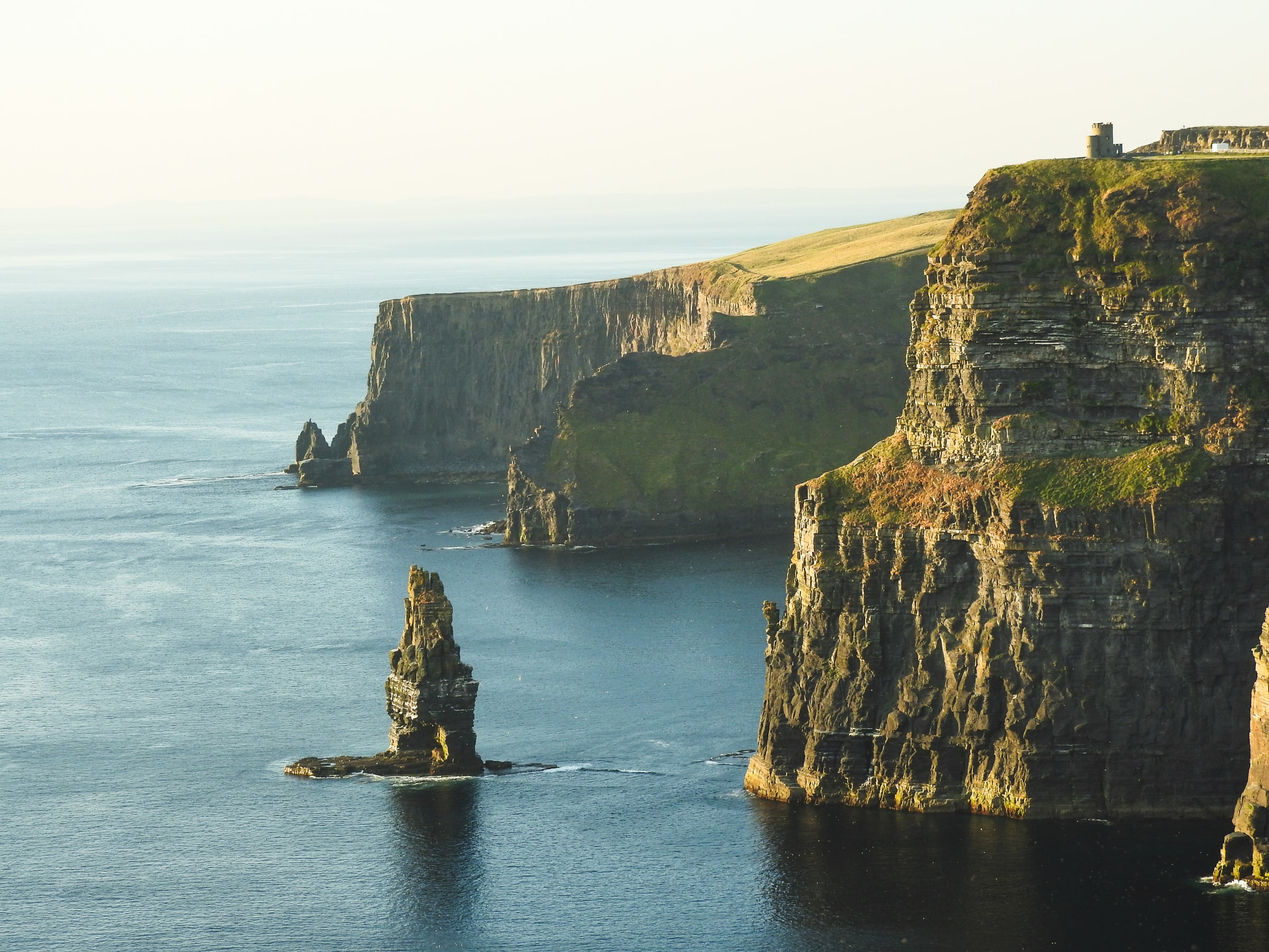
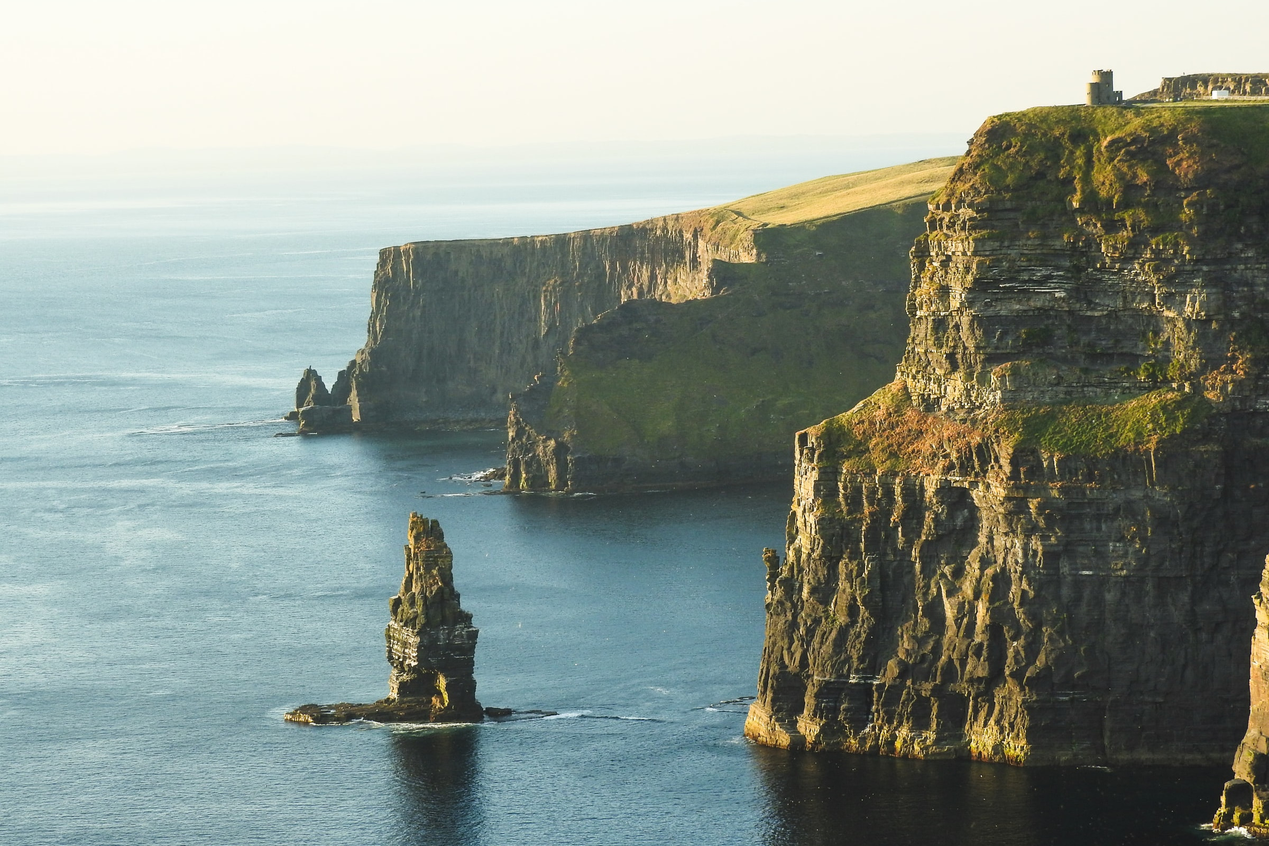
Adds responsive images html picture component

Changed region(s): [[0.0, 0.0625, 1.0, 1.0], [0.0, 0.4375, 0.1562, 0.4688]]

diff --git a/pages/index.tsx b/pages/index.tsx
@@ -1,7 +1,5 @@
 import React from 'react'
 
-import Image from 'next/image'
-
 import Layout from '../components/Layout'
 import MyHead from '../components/MyHead'
 import Header from '../components/Header'
@@ -20,13 +18,13 @@ const IndexPage = () => (
       title="Michael Cowell Irish Tours"
       description="I would be happy to contribute to a successful tour of Ireland."
     />
-    <ImageBackground backgroundImage="bg-doonagoreXXL">
+    <ImageBackground backgroundImage="doonagoreXS sm:doonagoreSM md:doonagoreMD lg:doonagoreLG xl:doonagoreXL 2xl:bg-doonagoreXXL">
       <Header />
       <Main>
-        <h1 className="mt-8 font-serif text-2xl font-bold text-center text-white inherit sm:text-5xl sm:mt-24 drop-shadow">
+        <h1 className="mt-8 font-serif text-2xl font-bold text-center text-white bg-green-600 opacity-80 sm:text-5xl sm:mt-24 drop-shadow">
           Michael Cowell Irish Tours
         </h1>
-        <h2 className="mt-8 font-serif font-bold text-center text-white sm:bg-opacity-0 text-1xl inherit sm:text-3xl drop-shadow">
+        <h2 className="mt-8 font-serif font-bold text-center text-white bg-yellow-600 sm:bg-opacity-0 text-1xl sm:text-3xl drop-shadow">
           Individually tailored and specialized tours
         </h2>
         <div className="mt-8 text-center">
@@ -43,10 +41,9 @@ const IndexPage = () => (
             until your departure."
         title="Click below to learn about the tour packages we offer."
         image={
-          <Image
-            className="w-full"
-            src="/img/xxl/xxl-henrique-craveiro-cliffs-of-moher-co-clare-ireland.webp"
-            alt="Close"
+          <Picture
+            src="henrique-craveiro-cliffs-of-moher-co-clare-ireland"
+            alt="henrique-craveiro-cliffs-of-moher-co-clare-ireland"
             width={2400}
             height={1600}
           />
@@ -60,10 +57,9 @@ const IndexPage = () => (
             until your departure."
         title="Click below to learn about the tour packages we offer."
         image={
-          <Image
-            className="w-full"
-            src="/img/xxl/xxl-michael-skellig-michael-co-kerry-also-doubles-as-luke-skywalker-retreat-in-star-wars-ireland.webp"
-            alt="Close"
+          <Picture
+            src="michael-skellig-michael-co-kerry-also-doubles-as-luke-skywalker-retreat-in-star-wars-ireland"
+            alt="michael-skellig-michael-co-kerry-also-doubles-as-luke-skywalker-retreat-in-star-wars-ireland"
             width={2400}
             height={1600}
           />
@@ -77,10 +73,9 @@ const IndexPage = () => (
             until your departure."
         title="Click below to learn about the tour packages we offer."
         image={
-          <Image
-            className="w-full"
-            src="/img/xxl/xxl-wynand-van-poortvliet-great-saltee-island-wexford-ireland.webp"
-            alt="Close"
+          <Picture
+            src="wynand-van-poortvliet-great-saltee-island-wexford-ireland"
+            alt="wynand-van-poortvliet-great-saltee-island-wexford-ireland"
             width={2400}
             height={1600}
           />

diff --git a/components/ui/Images/Picture.tsx b/components/ui/Images/Picture.tsx
@@ -1,24 +1,43 @@
-import { ReactNode } from 'react'
+// <picture>
+//   <source type="image/jpg" srcset="img-300w.jpg 300w img-500w.jpg 500w ...">
+//   <source type="image/webp" srcset="img-300w.webp 300w img-500w.webp 500w ...">
+//   <img src="img.jpg" alt="Adding alternative text to photos is first and foremost a principle of web accessibility."
+//    width="2400" height="1600">
+// </picture>
 
 import PictureSource from './PictureSource'
 
-import { IMAGE_TYPES } from '../../../constants/images'
+import {
+  DEFAULT_IMAGES_BASE_PATH,
+  DEFAULT_IMAGES_SUFFIX,
+  IMAGE_TYPES,
+} from '../../../constants/images'
 
 type Props = {
-  sources?: [ReactNode]
-  srcSet: string
-  sizes: string
   src: string
-  alt?: string
+  alt: string
+  width: number
+  height: number
 }
 
-const Picture = ({ src, srcSet, alt = 'Image' }: Props) => (
+const Picture = ({ src, alt, width, height }: Props) => (
   <picture>
     {IMAGE_TYPES.map((pictureSourceType) => {
-      return <PictureSource type={pictureSourceType.type} srcSet={srcSet} />
+      return (
+        <PictureSource
+          src={src}
+          suffix={pictureSourceType.suffix}
+          type={pictureSourceType.type}
+          key={pictureSourceType.type}
+        />
+      )
     })}
-
-    <img src={src} alt={alt} />
+    <img
+      src={DEFAULT_IMAGES_BASE_PATH + src + DEFAULT_IMAGES_SUFFIX}
+      alt={alt}
+      width={width}
+      height={height}
+    />
   </picture>
 )
 

diff --git a/tailwind.config.js b/tailwind.config.js
@@ -8,7 +8,19 @@ module.exports = {
     extend: {
       backgroundImage: (theme) => ({
         doonagoreXXL:
-          "url('/img/xxl/xxl-jesse-gardner-doonagore-castle-fort-of-the-goats-doolin-co-clare-ireland.webp')",
+          "url('/img/xxl/jordan-harrison-dame-lane-dublin-ireland-2400w.jpg')",
+        doonagoreXL:
+          "url('/img/xl/jordan-harrison-dame-lane-dublin-ireland-1920w.jpg')",
+        doonagoreLG:
+          "url('/img/lg/jordan-harrison-dame-lane-dublin-ireland-1560w.jpg')",
+        doonagoreMD:
+          "url('/img/md/jordan-harrison-dame-lane-dublin-ireland-1240w.jpg')",
+        doonagoreSM:
+          "url('/img/sm/jordan-harrison-dame-lane-dublin-ireland-800w.jpg')",
+        doonagoreXS:
+          "url('/img/xs/jordan-harrison-dame-lane-dublin-ireland-500w.jpg')",
+        doonagoreXXS:
+          "url('/img/xxs/jordan-harrison-dame-lane-dublin-ireland-300w.jpg')",
       }),
       zIndex: {
         '-1': '-1',
@@ -25,7 +37,9 @@ module.exports = {
       minHeight: {
         0: '0',
         '1/4': '25vh',
+        '2/5': '40vh',
         '1/2': '50vh',
+        '3/5': '60vh',
         '3/4': '75vh',
         '9/10': '90vh',
         full: '100%',

diff --git a/constants/images.ts b/constants/images.ts
@@ -1,6 +1,16 @@
-export const IMAGE_TYPES = [{ type: 'image/webp' }, { type: 'image/jpeg' }]
+import { ImageSize, ImageType } from '../interfaces'
 
-export const IMAGE_SIZES = [
+export const DEFAULT_IMAGES_BASE_PATH = '/img/originals/'
+export const DEFAULT_IMAGES_SUFFIX = '.jpg'
+
+export const IMAGES_BASE_PATH = '/img/'
+
+export const IMAGE_TYPES: ImageType[] = [
+  { type: 'image/webp', suffix: '.webp' },
+  { type: 'image/jpeg', suffix: '.jpg' },
+]
+
+export const IMAGE_SIZES: ImageSize[] = [
   { id: 'xxl', size: 2400, media: '(min-width: 2048px)' },
   { id: 'xl', size: 1920, media: '(min-width: 1920px)' },
   { id: 'lg', size: 1536, media: '(min-width: 1200px)' },
@@ -9,5 +19,3 @@ export const IMAGE_SIZES = [
   { id: 'xs', size: 500, media: '(min-width: 400px)' },
   { id: 'xxs', size: 300, media: '(max-width: 399px)' },
 ]
-
-export const IMAGES_BASE_PATH = './public/img/'

diff --git a/components/ui/Images/PictureSource.tsx b/components/ui/Images/PictureSource.tsx
@@ -1,10 +1,25 @@
+import { IMAGES_BASE_PATH, IMAGE_SIZES } from '../../../constants/images'
+
+import { ImageSize } from '../../../interfaces'
+
 type Props = {
+  src: string
+  suffix: string
   type: string
-  srcSet: string
 }
 
-const PictureSource = ({ type, srcSet }: Props) => (
-  <source type={type} srcSet={srcSet} />
+const PictureSource = ({ type, src, suffix }: Props) => (
+  <>
+    {IMAGE_SIZES.map((imgSize: ImageSize) => {
+      return (
+        <source
+          media={imgSize.media}
+          type={type}
+          srcSet={`${IMAGES_BASE_PATH}${imgSize.id}/${src}-${imgSize.size}w${suffix} ${imgSize.size}w`}
+          key={`${src}-${imgSize.size}w${suffix}`}
+        />
+      )
+    })}
+  </>
 )
-
 export default PictureSource

diff --git a/lib/images.ts b/lib/images.ts
@@ -1,0 +1,20 @@
+// Creates a space separated list of image path names with sizes
+/* '/img/xxl/abc-2400w.webp|jpg 2400w, 
+    /img/xl/abc-1920w.webp|jpg 1920w, 
+    /img/lg/abc-1280w.webp|jpg 1280w,
+    /img/md/abc-800w.webp|jpg 800w,
+    /img/xs/abc-500w.webp|jpg 500w,
+    /img/xxs/abc-300w.webp|jpg 300w,
+*/
+
+import { IMAGES_BASE_PATH, IMAGE_SIZES } from '../constants/images'
+
+import { ImageSize } from '../interfaces'
+
+export const generateSrcSet = (src: string, suffix: string): string => {
+  let srcSet = ''
+  IMAGE_SIZES.forEach((imgSize: ImageSize) => {
+    srcSet += `${IMAGES_BASE_PATH}${imgSize.id}/${src}-${imgSize.size}w${suffix} ${imgSize.size}w, `
+  })
+  return srcSet ?? ''
+}

diff --git a/interfaces/index.ts b/interfaces/index.ts
@@ -8,3 +8,21 @@ export type User = {
   id: number
   name: string
 }
+
+export type ImageSize = {
+  id: 'xxl' | 'xl' | 'lg' | 'md' | 'sm' | 'xs' | 'xxs'
+  size: 2400 | 1920 | 1536 | 1280 | 800 | 500 | 300
+  media:
+    | '(min-width: 2048px)'
+    | '(min-width: 1920px)'
+    | '(min-width: 1200px)'
+    | '(min-width: 1080px)'
+    | '(min-width: 750px)'
+    | '(min-width: 400px)'
+    | '(max-width: 399px)'
+}
+
+export type ImageType = {
+  type: 'image/webp' | 'image/jpeg'
+  suffix: '.webp' | '.jpg'
+}

diff --git a/components/Navigation/ResponsiveHeaderNavigation.tsx b/components/Navigation/ResponsiveHeaderNavigation.tsx
@@ -23,7 +23,7 @@ function ResponsiveHeaderNavigation() {
       <div className="block sm:hidden">
         <button
           className="flex items-center px-3 py-2 text-teal-200 border border-teal-400 rounded hover:text-white hover:border-white"
-          aria-control={MOBILE_MENU_ID}
+          aria-controls={MOBILE_MENU_ID}
           aria-expanded="false"
           onClick={() => setOpen(!open)}
         >

diff --git a/components/Brand.tsx b/components/Brand.tsx
@@ -1,5 +1,4 @@
 import React from 'react'
-import Image from 'next/image'
 
 type Props = {
   src: string
@@ -10,7 +9,7 @@ type Props = {
 }
 
 const Brand = ({ src, alt, width, height, styles }: Props) => (
-  <Image src={src} alt={alt} width={width} height={height} className={styles} />
+  <img src={src} alt={alt} width={width} height={height} className={styles} />
 )
 
 export default Brand

diff --git a/components/ImageBackground.tsx b/components/ImageBackground.tsx
@@ -9,7 +9,7 @@ const ImageBackground = ({ children, backgroundImage }: Props) => (
   <div
     className={
       backgroundImage +
-      ' backdrop-opacity-0 relative bg-responsive bg-cover bg-no-repeat min-h-1/2'
+      ' backdrop-opacity-0 relative bg-responsive bg-cover bg-no-repeat min-h-3/5'
     }
   >
     {children}

diff --git a/README.md b/README.md
@@ -8,6 +8,8 @@
 
 `yarn type-check`
 
+`yarn imagemin`
+
 # Firebase best practices
 
 1. Create **development** and **production** Firebase projects
